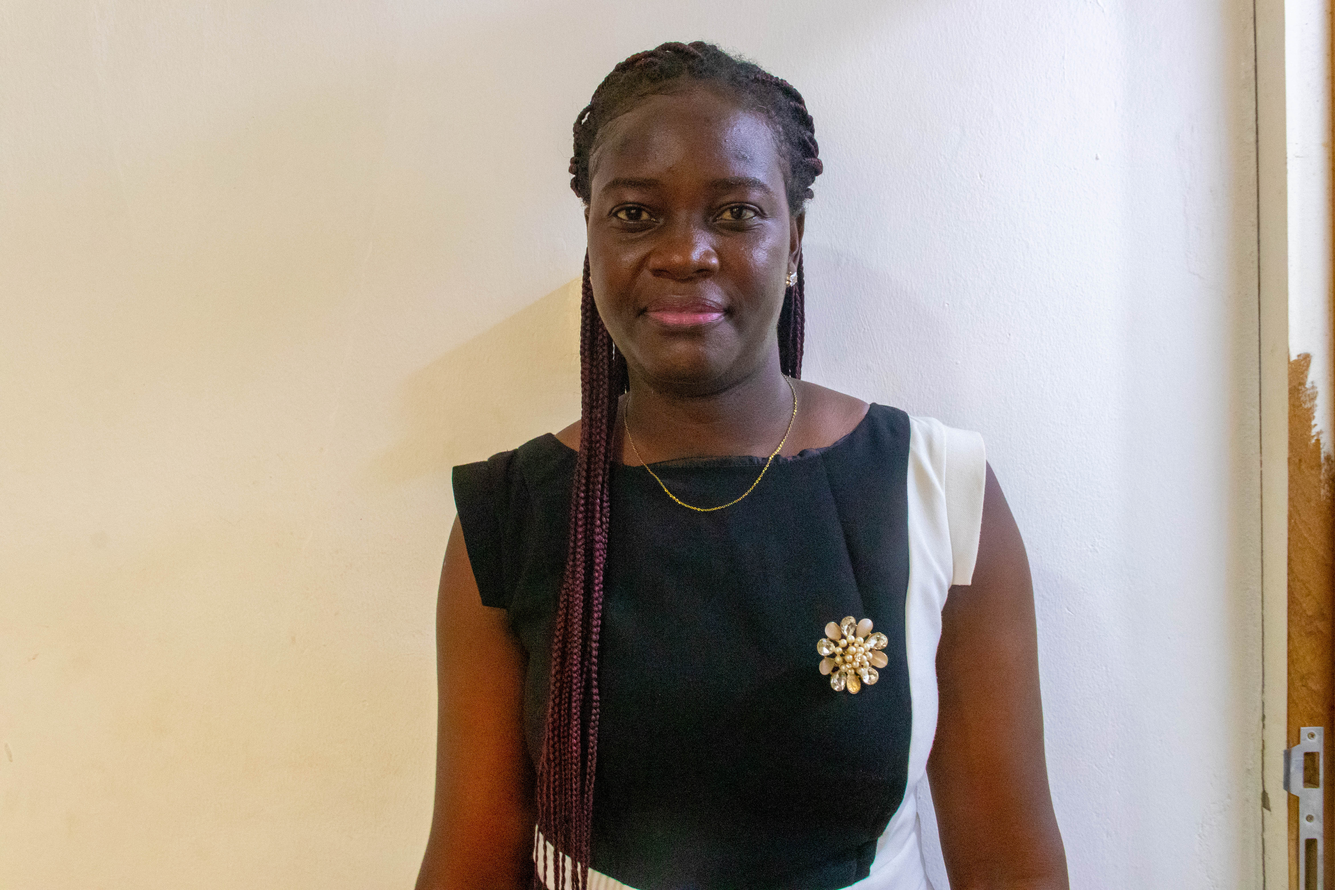
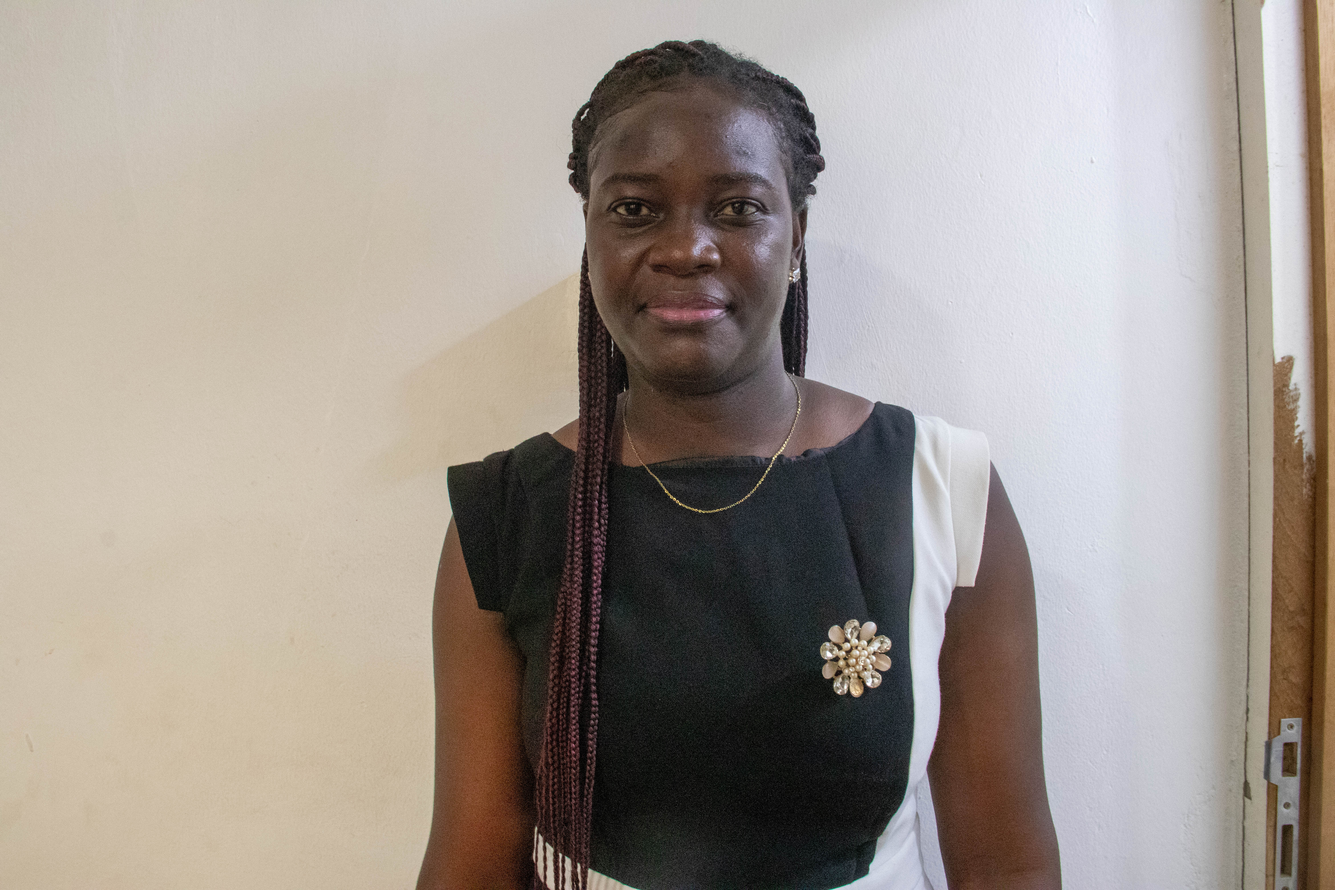
Update Blog, Staff, and Student Spotlight with new images

diff --git a/app/student-spotlight/page.tsx b/app/student-spotlight/page.tsx
@@ -9,73 +9,72 @@ const SPOTLIGHT_ITEMS = [
   {
     id: 1,
     type: 'achievement',
-    category: 'Achievement',
-    title: 'Regional Math Olympiad Winner',
-    student: 'Kwame Mensah',
-    grade: 'KG 1',
-    // HAS 3 IMAGES -> Arrows will show
+    category: 'Sports',
+    title: 'Overal Sports Winner',
+    student: 'Elvis',
+    grade: 'Grade 2',
     images: [
-        'https://images.unsplash.com/photo-1544717305-2782549b5136?w=800&q=80',
-        'https://images.unsplash.com/photo-1596495578065-6e0763fa1178?w=800&q=80',
-        'https://images.unsplash.com/photo-1509062522246-3755977927d7?w=800&q=80'
+        '/images/spotlight/elvis.jpg',
+        // Add extra photos:
+        // '/images/spotlight/math-award.jpg',
     ],
-    description: 'Kwame secured 1st place in the Central Region Math Olympiad, competing against 50+ schools.',
-    fullContent: 'Kwame has shown exceptional aptitude for mathematics since Grade 1. His dedication to solving complex problems led him to win the regional trophy. We are incredibly proud of his hard work and the support from our math department. Click through the images above to see photos from the competition day and the award ceremony.'
+    description: 'Elvis secured 1st place in the sports week of B-weh schools.',
+    fullContent: 'Elvis has shown exceptional. His dedication. We are incredibly proud of his hard work.'
   },
   {
     id: 2,
     type: 'art',
     category: 'Creativity',
-    title: 'Sunset over the Savannah',
-    student: 'Ama Osei',
-    grade: 'Basic 2',
-    //  more art images so arrows appear
+    title: 'Art and Exhibition',
+    student: 'Nana Abena',
+    grade: 'Kingdagateng 2',
+    //'public/images/spotlight/art-sunset.jpg'
     images: [
-        'https://images.unsplash.com/photo-1513364776144-60967b0f800f?w=800&q=80',
-        'https://images.unsplash.com/photo-1560421683-6856ea585c78?w=800&q=80',
-        'https://images.unsplash.com/photo-1460661419201-fd4cecdf8a8b?w=800&q=80'
+        '/images/spotlight/art.jpg', 
     ],
-    description: 'Acrylic on Canvas. Selected for the National Youth Art Exhibition.',
+    description: 'We had our maiden Art and Exhibition Day', 
     fullContent: 'Ama captured the warmth of the Ghanaian sunset beautifully using acrylics. This piece was selected among thousands of entries for the national exhibition.' 
   },
   {
     id: 3,
     type: 'essay',
     category: 'Writing',
-    title: 'Why We Must Protect Our Oceans',
+    title: 'Writing',
     student: 'Sarah Johnson',
-    grade: 'Basic 2',
-    images: [], // Essays still have no images (Correct behavior)
+    grade: 'Nursery 2',
+    // Essays usually look better without an image (using the paper icon style), 
+    // but you can add one here if you really want to.
+    images: [
+      '/images/spotlight/write.jpg',
+    ], 
     description: 'An award-winning persuasive essay on environmental conservation.',
     fullContent: 'The ocean is the heart of our planet. It regulates climate, feeds millions, and produces the oxygen we breathe. Yet, we treat it as a dumping ground. In this essay, I explore three key ways students can reduce plastic waste...'
   },
   {
     id: 4,
     type: 'science',
-    category: 'STEM',
-    title: 'Hydraulic Arm Project',
-    student: 'Robotics Club Team',
-    grade: 'KG2',
-    // more science images
+    category: 'Science & Tech',
+    title: 'Nature and Plant Care',
+    student:'All Learners',
+    grade: 'Mixed Grades',
+    //'public/images/spotlight/hydraulic-arm.jpg'
     images: [
-        'https://images.unsplash.com/photo-1581092160562-40aa08e78837?w=800&q=80',
-        'https://images.unsplash.com/photo-1532094349884-543bc11b234d?w=800&q=80',
-        'https://images.unsplash.com/photo-1516321318423-f06f85e504b3?w=800&q=80'
+        '/images/spotlight/plant.2.jpg',
+        '/images/spotlight/plant.jpg',
+        '/images/spotlight/plant.3.jpg',
     ],
-    description: 'A working hydraulic arm built entirely from recycled materials and syringes.',
-    fullContent: 'Our robotics team applied Pascal’s principle to create a mechanical arm capable of lifting 500g objects. The project demonstrates the power of fluid pressure and mechanical advantage.'
-  },
+    description: 'Moments from our Nature & Plant Care Activity.',
+    fullContent: 'The learners explored different gardening tools, soil types, and seeds. Each class planted something unique tomatoes, onions, okra, pepper, garden eggs, and more then watered their plants with so much excitement. This activity helps them learn responsibility, teamwork, and appreciation for nature.'},
   {
     id: 5,
     type: 'achievement',
     category: 'Achievement',
     title: 'Best Speller 2024',
     student: 'Emmanuel Darko',
-    grade: 'Nursery1',
-    // more spelling bee images
+    grade: 'Grade 4',
+    // CHANGE THIS: Matches 'public/images/spotlight/spelling-bee.jpg'
     images: [
-        'https://images.unsplash.com/photo-1509062522246-3755977927d7?w=800&q=80',
-        'https://images.unsplash.com/photo-1427504746696-277666db6992?w=800&q=80'
+        '/images/spotlight/spelling-bee.jpg'
     ],
     description: 'Emmanuel correctly spelled all 50 words to win the Inter-Class Spelling Bee.',
     fullContent: 'Emmanuel’s vocabulary has grown immensely this year. His favorite word to spell was "Chrysanthemum".'
@@ -86,17 +85,15 @@ const SPOTLIGHT_ITEMS = [
     category: 'Creativity',
     title: 'Recycled Sculpture',
     student: 'Creative Arts Class',
-    grade: 'Nursery 2',
-    // more sculpture images
+    grade: 'Grade 6',
+    // CHANGE THIS: Matches 'public/images/spotlight/sculpture.jpg'
     images: [
-        'https://images.unsplash.com/photo-1544947950-fa07a98d237f?w=800&q=80',
-        'https://images.unsplash.com/photo-1551590192-807e80d75d45?w=800&q=80'
+        '/images/spotlight/sculpture.jpg'
     ],
     description: 'A life-size sculpture of a turtle made from collected plastic bottles.',
     fullContent: 'This sculpture raises awareness about plastic pollution. The students collected over 200 bottles from the school grounds to create this masterpiece.'
   },
 ];
-
 const CATEGORIES = [
   { id: 'all', label: 'All Spotlights', icon: <FaStar /> },
   { id: 'Achievement', label: 'Achievements', icon: <FaTrophy /> },

diff --git a/app/blog/page.tsx b/app/blog/page.tsx
@@ -7,30 +7,39 @@ import { FaCalendarAlt, FaArrowRight } from 'react-icons/fa';
 export const BLOG_POSTS = [
   {
     id: 1,
-    title: 'B-Weh Schools Wins Regional Debate Competition',
-    excerpt: 'Our diligent students showcased exceptional public speaking skills to take home the trophy.',
+    title: 'Sports Week-Nursery Class Crowned Overall Winners',
+    excerpt: 'After a week-long contest among the various classes of B-Weh Schools Montessori, the Nursery Class emerged as the overall champions. Their teamwork, enthusiasm, and determination made this year’s Sports Week truly memorable.',
     date: 'Dec 01, 2025',
-    category: 'Achievements',
-    image: '/images/blog/debate-win.jpg', // Updated to local image
-    slug: 'regional-debate-win'
+    category: 'Sports',
+    image: '/images/blog/blog0.jpg',
+    slug: 'sports-week'
   },
   {
     id: 2,
-    title: 'Admissions Open for the 2026 Academic Year',
-    excerpt: 'Secure your child’s spot in our Montessori program. Learn about the new application process.',
+    title: 'Our Art & Exhibition Day and NPT',
+    excerpt: 'As part of our commitment to nurturing creativity and holistic development, we hosted our maiden Art and Exhibition Day. The event provided a platform for our learners to showcase their impressive artworks and express their talents with confidence.',
     date: 'Nov 20, 2025',
-    category: 'Admissions',
-    image: '/images/blog/admissions.jpg', 
-    slug: 'admissions-2026'
+    category: 'Art and Exhibition',
+    image: '/images/blog/blog1.jpg', 
+    slug: 'art and exhibition'
   },
   {
     id: 3,
-    title: 'The Importance of Play in Early Childhood',
-    excerpt: 'Why our curriculum emphasizes guided play as a critical component of cognitive development.',
+    title: 'Enjoy AI Africa Open-Two Trophies Won',
+    excerpt: 'We proudly participated in the 2025 Enjoy AI Africa Open, an international competition featuring contestants from across Africa. Our learners delivered outstanding performances and returned home with two remarkable trophies.',
     date: 'Nov 15, 2025',
-    category: 'Education',
-    image: '/images/blog/play-time.jpg', 
-    slug: 'importance-of-play'
+    category: 'Robotics & AI',
+    image: '/images/blog/blog10.jpg', 
+    slug: 'Robotics and AI'
+  },
+   {
+    id: 3,
+    title: 'Enjoy AI Africa Open-Two Trophies Won',
+    excerpt: 'We proudly participated in the 2025 Enjoy AI Africa Open, an international competition featuring contestants from across Africa. Our learners delivered outstanding performances and returned home with two remarkable trophies.',
+    date: 'Nov 15, 2025',
+    category: 'Robotics & AI',
+    image: '/images/blog/blog10.jpg', 
+    slug: 'Robotics and AI'
   },
 ];
 

diff --git a/app/staff/page.tsx b/app/staff/page.tsx
@@ -7,20 +7,20 @@ type Staff = {
 };
 
 const staff: Staff[] = [
-  {
-    name: 'Rhoda Adjei',
-    role: 'Administrator',
-    photo: '/images/staff/rhoda.jpg',
-  },
-  {
+   {
     name: 'Rebecca  Efua Mankoh',
     role: 'Admin Academic Affairs',
     photo: '/images/staff/becky.jpg',
   },
   {
+    name: 'Rhoda Adjei',
+    role: 'Admin Admiistrative Affairs',
+    photo: '/images/staff/rhoda.jpg',
+  },
+  {
     name: 'Sarah Narki Dzamefe',
     role: 'Facilitator',
-    photo: '/images/staff/IMG_4309.jpg',
+    photo: '/images/staff/sarahl.jpg',
   },
   {
     name: 'Ruth Dugbe Botchwey',
@@ -85,9 +85,9 @@ const staff: Staff[] = [
     photo: '/images/staff/TT.jpg',
   },
     {
-    name: 'Florence Ayensu',
-    role: 'Genitor',
-    photo: '/images/staff/Florince2.jpg',
+    name: '',
+    role: 'Janitor',
+    photo: '/images/staff.jpg',
   },
   
 

diff --git a/app/contact/page.tsx b/app/contact/page.tsx
@@ -126,12 +126,12 @@ export default function ContactPage() {
             </div>
             <div>
               <p className="font-semibold text-slate-900">Phone</p>
-              <p className="mt-1 text-sm text-slate-600">+233 (0) </p>
+              <p className="mt-1 text-sm text-slate-600">+233 (0) 54 975 3104 </p>
             </div>
             <div>
               <p className="font-semibold text-slate-900">Email</p>
               <p className="mt-1 text-sm text-slate-600">
-                info@bwehschools.montessori
+                bwehschools@gmail.com
               </p>
             </div>
             <div>

diff --git a/components/Navbar.tsx b/components/Navbar.tsx
@@ -158,7 +158,7 @@ export default function Navbar() {
         {/* --- RIGHT: Portal Button --- */}
         <div className="flex items-center gap-2">
           <Link
-            href="https://sms.bwehschool.com/login"
+            href="https://sms.bwehschools.com/login"
             target="_blank"
             className={`hidden items-center gap-2 rounded-md px-5 py-3 text-sm font-bold shadow-xl transition-all duration-300 transform hover:-translate-y-1 lg:inline-flex ${
               useLightMode

diff --git a/components/BlogSection.tsx b/components/BlogSection.tsx
@@ -14,7 +14,7 @@ const BLOG_POSTS = [
     category: 'STEAM',
 
     image: '/images/blog/blog10.jpg', 
-    slug: 'importance-of-play'
+    slug: 'enjoy-ai-africa-open'
   },
   {
     id: 2,
